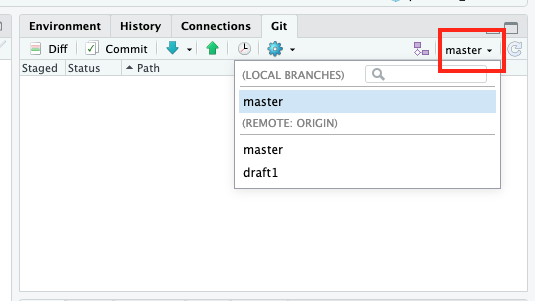
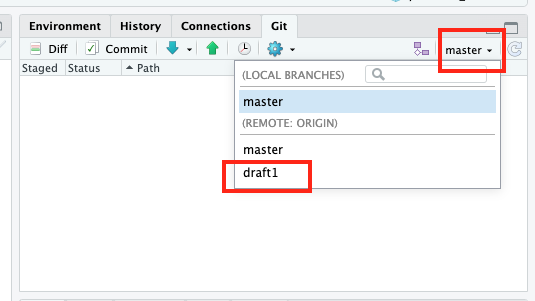
update

Changed region(s): [[0.3888, 0.5083, 0.5981, 0.6578]]

diff --git a/docs/how-to-write-with-rstudio.html b/docs/how-to-write-with-rstudio.html
@@ -470,12 +470,26 @@ div.tocify {
 <p><br></p>
 <p>PDFファイルが出力されずにエラーがでる場合，なぜかうまく行かないことがあります。その場合は，以下のコマンドでtinytexをインストールください（大体うまくいきます）。tinytexのインストールでもうまくいかない場合は，<code>tinytex::tlmgr_install(‘ipaex’)</code>で日本語出力用フォントをインストールしてください。</p>
 <pre><code>tinytex::install_tinytex()</code></pre>
+<div id="課題" class="section level4">
+<h4>課題１</h4>
+<p>自分の名前と学籍番号と適当なタイトルに変更して，KnitしてPDFを出力してみましょう！</p>
 <p><br></p>
+</div>
 </div>
 <div id="githubを使ったバージョン管理法について" class="section level3">
 <h3>4.GitHubを使ったバージョン管理法について</h3>
-<p>実際は，国里が作った各学生用のリポジトリで作業用ブランチを作って作業をします。作業に応じて，CommitとPushを繰り返していきます。そして，国里の卒論・修論チェックのタイミングでPull requestsをしてもらって，国里がチェックをします。詳細は，ゼミの時に説明をします。</p>
+<p>みなさんは，国里が作った各自のGithubリポジトリの作業用ブランチ（draft1）で作業します。作業していて，こまめにCommitをしていきます。RstudioでのCommitは以下の手順です。</p>
+<ol style="list-style-type: decimal">
+<li>GitタブのCommitをクリック</li>
+<li>出てきたウィンドウでファイルを選んで，Stageをクリック</li>
+<li>Commit messageに作業内容を書く（日本語でかまいません。「卒論の図を追加」とか分かりやすいものを追加ください）</li>
+<li>ウィンドウの右上のPushをクリックして，GitHubリポジトリに反映させる</li>
+</ol>
+<div id="課題-1" class="section level4">
+<h4>課題２</h4>
+<p>課題１で手を加えた卒論・修論のファイル，メッセージ付きでCommitして，Pushしてみましょう。</p>
 <p><br></p>
+</div>
 </div>
 <div id="引用文献に関する補足" class="section level3">
 <h3>引用文献に関する補足</h3>
